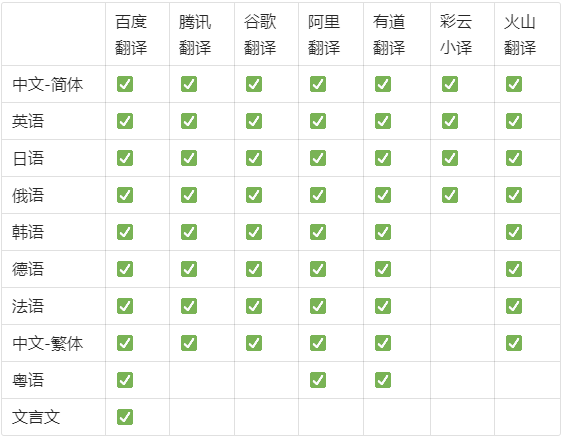
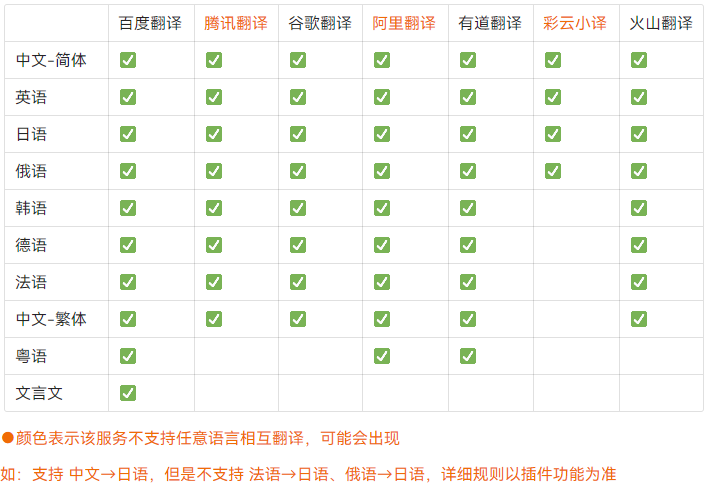
style: 变更深色模式背景，使其和utools融为一体，变更介绍图

diff --git a/src/views/MainView.vue b/src/views/MainView.vue
@@ -582,7 +582,7 @@ onKeyStroke('Tab', e => {
 
 <style lang="scss" scoped>
 .main_wrapper {
-  @apply grid-c h-screen overflow-hidden px-24px pb-24px relative dark:(bg-dark-300 text-white);
+  @apply grid-c h-screen overflow-hidden px-24px pb-24px relative dark:(bg-[#303133] text-white);
   .main {
     @apply p-16px flex flex-col h-full w-full shadow-xl rounded-8px overflow-hidden dark:(shadow-[#161616] shadow-lg bg-dark-300);
   }
